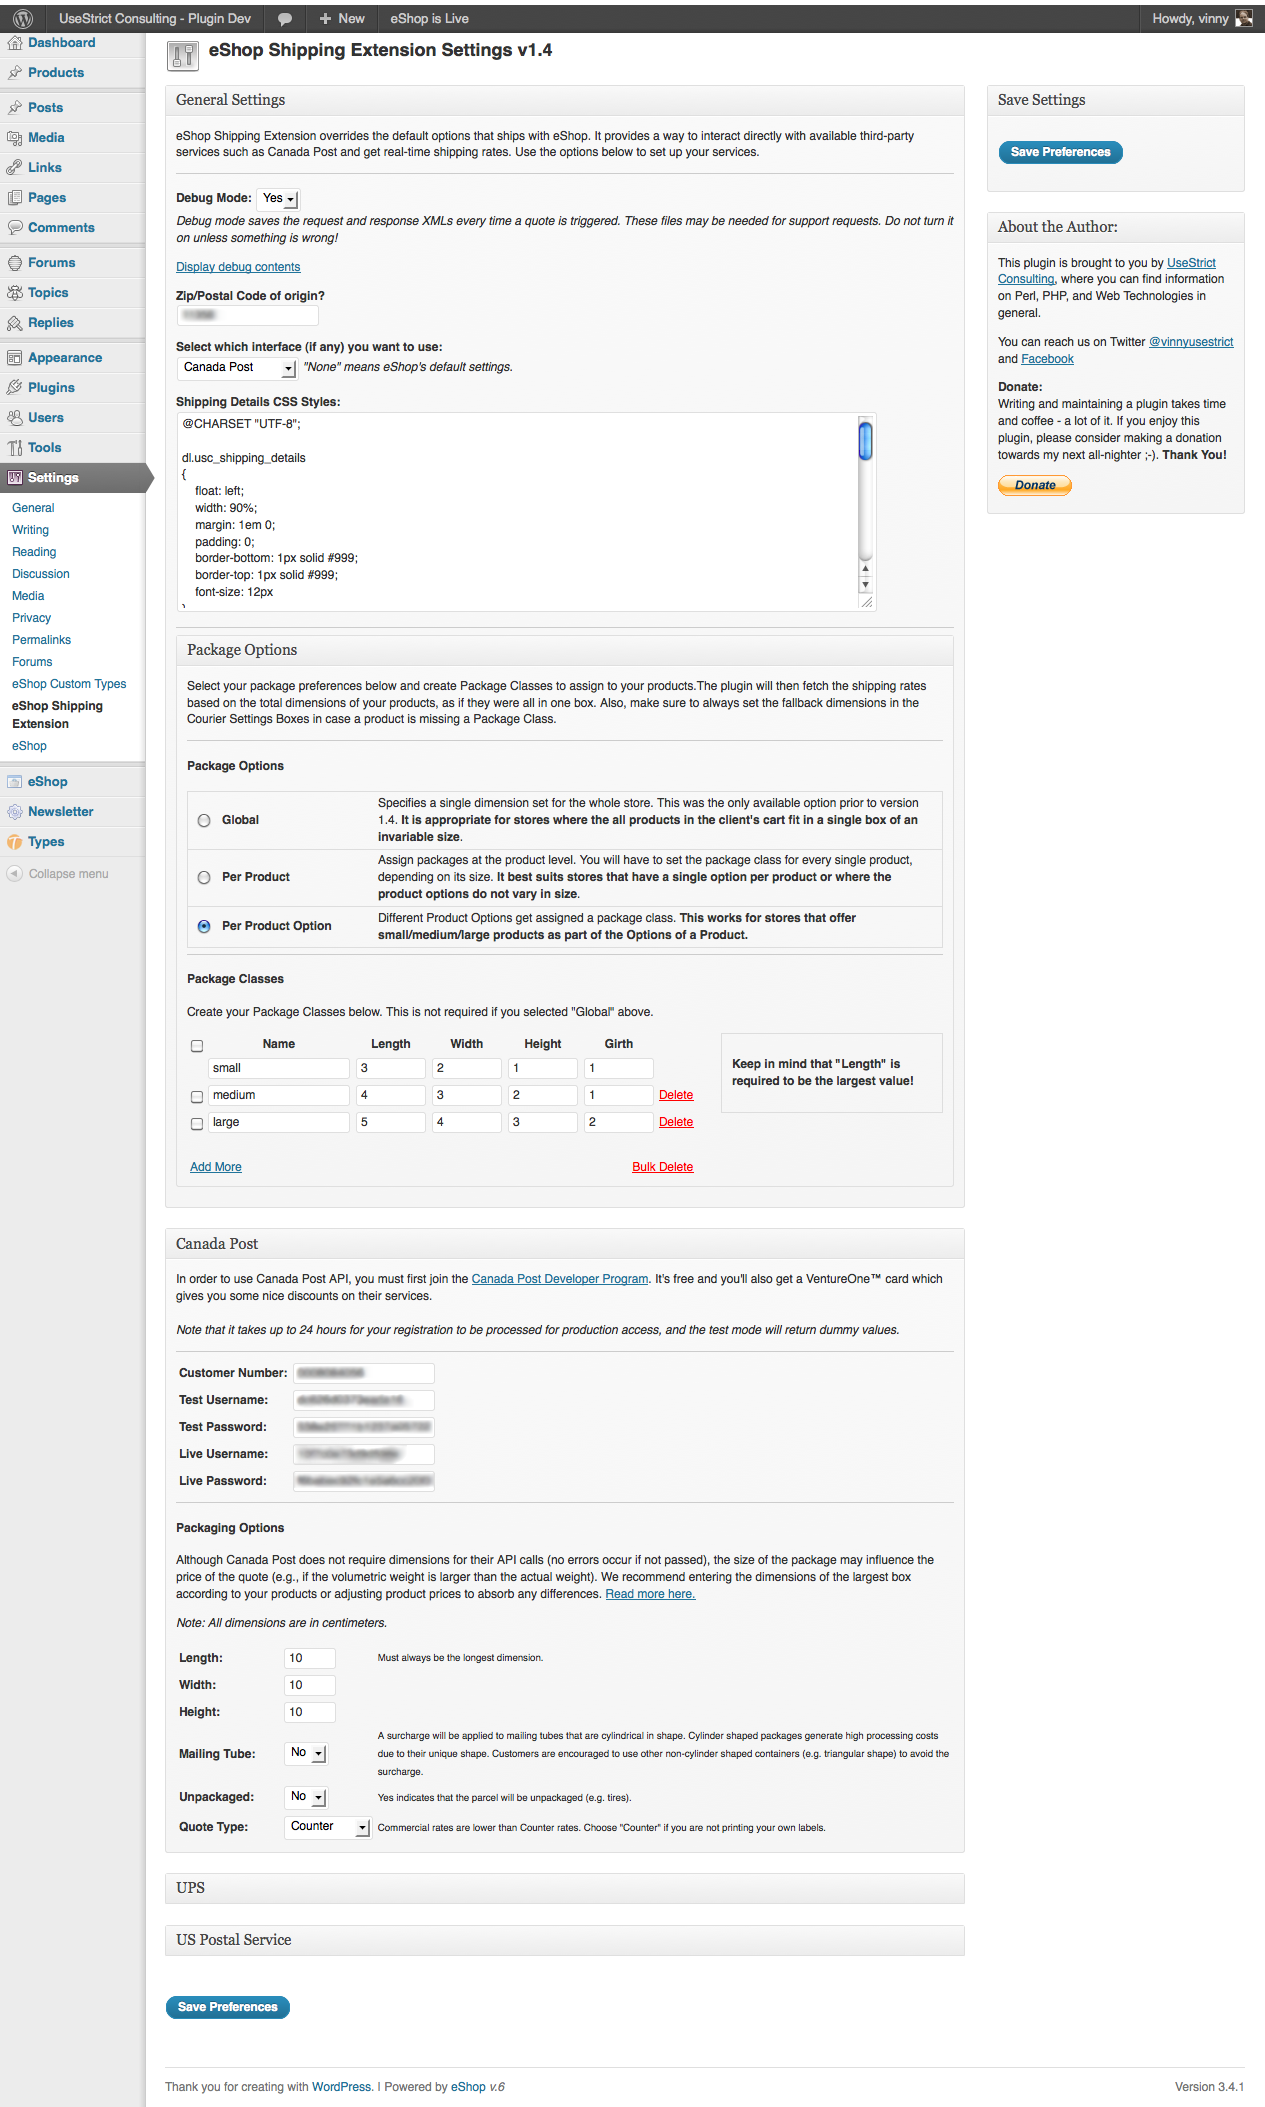
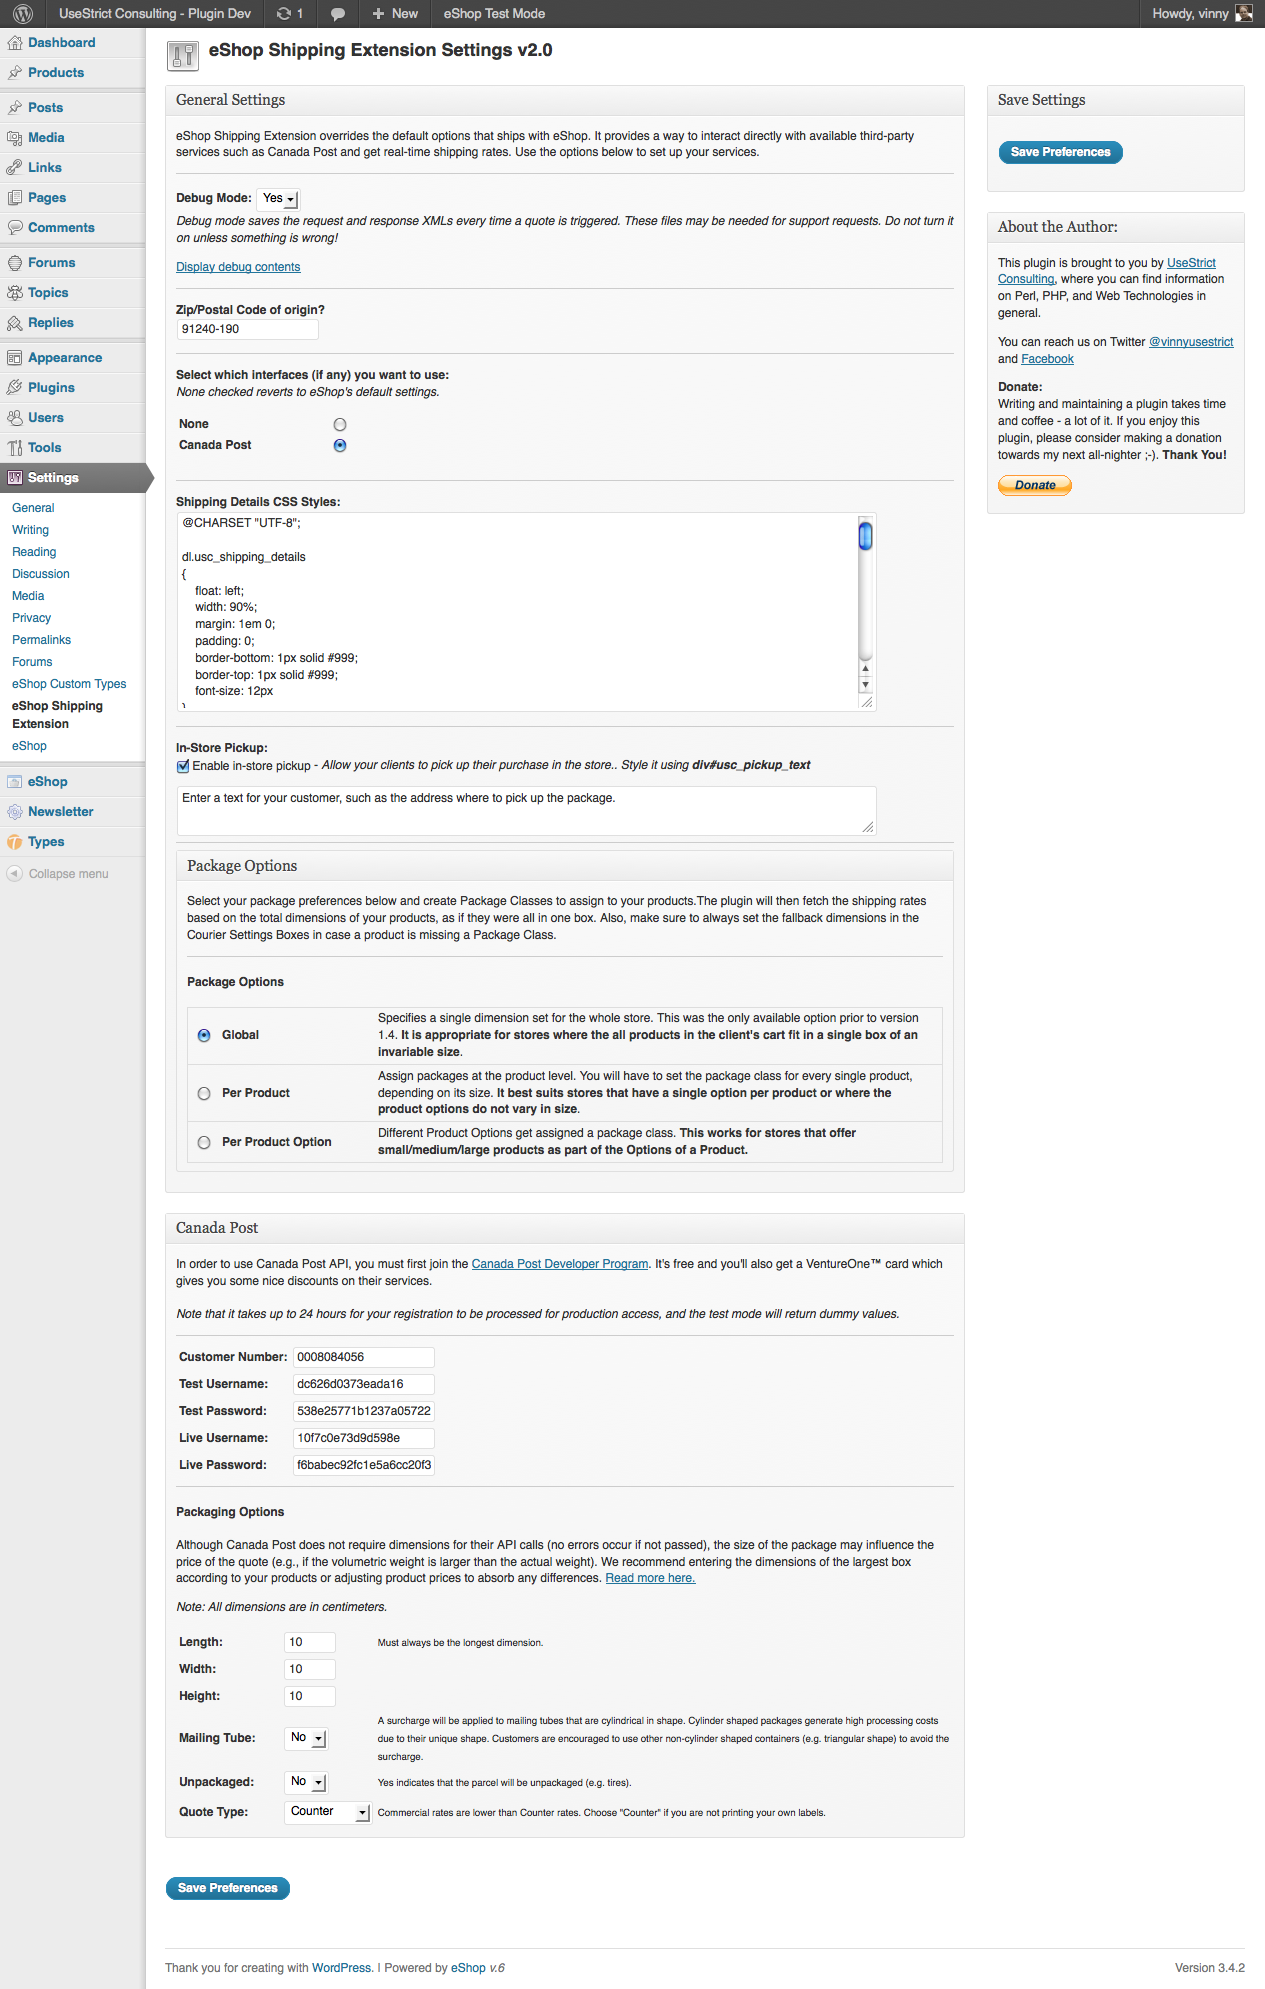
improved admin third-party options
git-svn-id: https://plugins.svn.wordpress.org/eshop-shipping-extension/branches/2.0@599720 b8457f37-d9ea-0310-8a92-e5e31aec5664

Changed region(s): [[0.0, 0.0, 1.0, 0.9975], [0.9249, 0.9663, 0.9866, 0.9975], [0.6166, 0.904, 0.6474, 0.9351]]

diff --git a/includes/admin.php b/includes/admin.php
@@ -491,8 +491,21 @@ class USC_eShop_Shipping_Extension_Admin extends USC_eShop_Shipping_Extension
 						else {
 							$("#in-store-pickup-text").hide();
 						}
-							
 					});
+
+					// Deselect all selected third party when none is selected
+					$("#third_party_none").click(function(){
+						$(".third_party_chkbx").each(function(){
+							$(this).attr('checked',false);
+							$(".modules").hide();
+						});
+					});
+
+					$("input.third_party_chkbx[type=checkbox]").click(function(){
+						if($(this).is(':checked')) {
+							$("#third_party_none").attr('checked',false);
+						}
+					})
 				});
 			</script>
 			
@@ -619,6 +632,12 @@ class USC_eShop_Shipping_Extension_Admin extends USC_eShop_Shipping_Extension
 									<em><?php _e('None checked reverts to eShop\'s default settings.',$this->domain); ?></em></p>
 									
 									<table>
+										<?php $checked = (count($opts['third_party']) == 1 && $opts['third_party'][0] == 'on') ? 'checked="checked"' : ''; ?>
+										<tr>
+											<th><?php _e('None',$this->domain);?></th>
+											<td><input type="radio" id="third_party_none" <?php echo $checked; ?> name="<?php echo $this->options_name; ?>[third_party][]" /></td>
+										</tr>
+										
 										<?php foreach ($this->modules as $k => $v) :
 											if ($v->is_postal !== true) continue; // Show mutually exclusive services first
 										

diff --git a/eshop-shipping-extension.php b/eshop-shipping-extension.php
@@ -3,7 +3,7 @@
 * Plugin Name:   eShop Shipping Extension
 * Plugin URI:	 http://usestrict.net/2012/06/eshop-shipping-extension-for-wordpress-canada-post/
 * Description:   eShop extension to use third-party shipping services. Currently supports Canada Post, UPS, USPS, and Correios. Correios, UPS, and USPS modules can be purchased at http://goo.gl/rkmu0
-* Version:       2.0
+* Version:       2.0.1
 * Author:        Vinny Alves
 * Author URI:    http://www.usestrict.net
 *
@@ -26,7 +26,7 @@ define('ESHOP_SHIPPING_EXTENSION_ABSPATH', plugin_dir_path(__FILE__));
 define('ESHOP_SHIPPING_EXTENSION_INCLUDES', ESHOP_SHIPPING_EXTENSION_ABSPATH . '/includes');
 define('ESHOP_SHIPPING_EXTENSION_MODULES', ESHOP_SHIPPING_EXTENSION_INCLUDES . '/modules');
 define('ESHOP_SHIPPING_EXTENSION_THIRD_PARTY', ESHOP_SHIPPING_EXTENSION_INCLUDES . '/third-party');
-define('ESHOP_SHIPPING_EXTENSION_VERSION', '2.0');
+define('ESHOP_SHIPPING_EXTENSION_VERSION', '2.0.1');
 define('ESHOP_SHIPPING_EXTENSION_DOMAIN', 'eshop-shipping-extension');
 define('ESHOP_SHIPPING_EXTENSION_DOMAIN_CSS_URL',plugins_url( ESHOP_SHIPPING_EXTENSION_DOMAIN . '/includes/css'));
 define('ESHOP_SHIPPING_EXTENSION_MODULES_URL',plugins_url( ESHOP_SHIPPING_EXTENSION_DOMAIN . '/includes/modules'));
